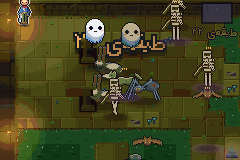
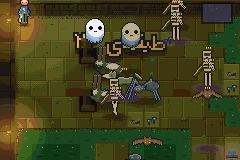
art(S9.10): R5 feedback — label + hero rim

Changed region(s): [[0.7875, 0.1562, 0.9917, 0.25], [0.0583, 0.0, 0.1458, 0.1562]]

diff --git a/game.html b/game.html
@@ -9432,17 +9432,6 @@ return {READ_GAP, READ_FLOOR, FLOOR_PASSES, bakeFloor};
 })();
 const {READ_GAP, READ_FLOOR, FLOOR_PASSES, bakeFloor} = __m_dungeon_bake;
 const __m_run_render = (() => {
-const _rims = new WeakMap(), RIM_C = [242, 239, 228, 210];
-function heroRim(spr) { // حلقهی ۴-همسایه دورِ پیکسلهای مات (α≥200؛ سایهی پختهشده نادیده) — یکبار بهازای هر اسپرایت؛ فهرستِ اندیس (ارزان)
-let m = _rims.get(spr);
-if (m) return m;
-const w = spr.w, h = spr.h, d = spr.d; m = [];
-const op = (x, y) => x >= 0 && y >= 0 && x < w && y < h && d[(y * w + x) * 4 + 3] >= 200;
-for (let y = 0; y < h; y++) for (let x = 0; x < w; x++) if (!op(x, y) && (op(x - 1, y) || op(x + 1, y) || op(x, y - 1) || op(x, y + 1))) m.push(x, y);
-_rims.set(spr, m);
-return m;
-}
-function drawRim(r, m, ox, oy) { for (let i = 0; i < m.length; i += 2) r.px(ox + m[i], oy + m[i + 1], RIM_C); }
 const LIT = [], LIT_R2 = 92 * 92; // S9.2: شعاعِ «موجودِ روشن» ≈ هالهی دیدِ قهرمان (۷۸) + حاشیه
 const _sprCache = new Map(); // کش اسپرایت قهرمان (LRU)
 const ENTS = []; // لیست موجودات قابل رندر — بازمصرف بین فریمها
@@ -9555,7 +9544,6 @@ LIT.length = nLit;
 function drawEnt(en) {
 if (en.hero) {
 const hx = Math.round(h.x) - HOX - cx, hy = Math.round(h.y) - HOY - cy;
-drawRim(r, heroRim(run._heroSprite()), hx, hy); // S9.2: حلقهی روشنِ ۱px بیرونِ outline ⇒ قهرمان روی هر کف جدا
 run._heroSprite().over(r, hx, hy); // سایه داخل اسپرایت پخته شده (ن۳۵: دوبل حذف شد)
 if (h.hurtT > 0 && Math.floor(h.hurtT * 30) % 2 === 0) run._heroSprite(true).over(r, hx, hy);
 else if (h.iframe > 0 && Math.floor(h.iframe * 24) % 2 === 0) r.rect(hx + 14, hy + 14, 36, 36, IFRAME_BOX); // ن۳۵: بوم ۶۴px
@@ -9663,7 +9651,6 @@ run._miniFloor = run.floor;
 }
 r.rect(mx - 1, my - 1, COLS * s + 2, ROWS * s + 2, MINI_BG);
 run._mini.over(r, mx, my);
-{ const lb = t('floor') + ' ' + faNum(run.floor); drawText(r, lb, Math.min(Math.round(mx + COLS * s / 2 - textW(lb, 1) / 2), r.w - textW(lb, 1) - 3), my + ROWS * s + 3, E.gold, 1, { outline: true }); } // ن۴۹: برچسب هرگز از لبه بیرون نمیزند // ن۴۱: برچسب طبقه زیر مینیمپ
 const hx = Math.floor(h.x / TILE), hy = Math.floor(h.y / TILE);
 if (Math.floor(run.time * 4) % 2 === 0) r.rect(mx + hx * s, my + hy * s, 2, 2, [255, 255, 255, 255]);
 if (bossRef) r.px(mx + Math.floor(bossRef.x / TILE) * s, my + Math.floor(bossRef.y / TILE) * s, BOSS_DOT);

diff --git a/MEMORY.md b/MEMORY.md
@@ -109,6 +109,7 @@ farmdungeon/   (کل ورکاسپیس ۲٫۵MB — بیرون فقط uploads/
 - **ن۱۲۰: S9.8 ✅ آبوهوای پیکسلی (۱ ماژول weather_px + farm_render، build_single)** — M5 باران ۷٫۲→۱۰۰٪: صحنهی ممیزی t=0 دقیقاً فریمِ فلش بود (lightningK)؛ flashTint آلفایی ⇒ flashPal با کشِ Int16 ۳۲۷۶۸ برای هر شدت. drawRain/flashTint/drawLightning در weather.js دیگر صدا زده نمیشوند (نگه داشته شده). audit مزرعه باران M5=۱۰۰٪. run_all سبز.
 - **ن۱۲۱: S9.9 (نیمه، تیک نخورده) — پرداختِ چهرهی قهرمان در hero_px** — چشمها از ۲px عمودی به ۱px (جلو/کنار)، پلکِ blink همخوان، دکمهی سیاهِ کمر → Y. تلاشِ چشم در ردیفِ ۳ سر بعد از half محو میشد ⇒ چشم در ردیفِ ۴. run_all سبز، audit ۸٫۲ (فقط M8 مزرعه=۱). ریلیز art-v3 منتظرِ تأییدِ کاربر برای M8 فقط-زمین. شاهد `shots/s99_hero_face.jpg`.
 - **ن۱۲۲: S9.9 ✅ ریلیز art-v3 (hero_px + art_audit)** — پای جلو/پشت: ax=hip±۱ (حلقهی O حذف، کارگرها هم)؛ پای کنار sideLeg (≤۱px/ردیف + زانوی ۲×۲). M8 با r.groundMask در farmSceneReal (قهرمان پیکسلی، خانه جعبهی ۵۹×۶۴ از HOUSE*TILE-(12,28)، کارگر ۲۸×۴۰). **درس:** M8 مزرعه=۱ از کارگر روی x=96 بود (ردیفهای ۱۰–۳۹)، نه قهرمان (ن۷۹ اشتباه بود). شاتهای ref_* با `node tools/sheet.mjs` بازسازی میشوند و کهنه بودند. audit ۹٫۱ (۱۰/۱۱). بعدی: 🛑 R5.
+- **ن۱۲۳: S9.10 ✅ بازخوردِ R5 (run_render)** — برچسبِ طبقهی مینیمپ و heroRim/drawRim حذف. اسکرینشاتِ کاربر: پیشنمایش با zoom ۴ ⇒ متنِ sc1 حدود ۵۰px. تیترِ splash در رستر درست وسط است (/tmp/tt.mjs).
 - **ن۱۱۳: R4 ⇒ P9 + S9.1 ✅ فونتِ فارسیِ متصل (۱ ماژولِ تازه + ۲ ویرایش)** — بازخوردِ کاربر: «همهچیز تار است» + امتیازِ سختگیرانهی ۴٫۲/۱۰ ⇒ فازِ **P9 زیبایی و وضوح** (۷ نشست + R5؛ هر نشست یک سنجهی چشمیِ تازه که قبل FAIL/بعد PASS). **کشف:** فونتِ S7.3 حروف را جدا و تکشکل میکشید (بدونِ آغازی/میانی/پایانی، ب بینقطه) ⇒ «طبقه» ≈ «uopub»؛ سنجههای قبلی (گلیف موجود/چشمه) این را نمیدیدند. **کار:** `tools/author_font_vaz.py` (تازه): Vazirmatn Medium **11px** (OFL، فقط در /tmp/vaz.ttf؛ بازی فایلِ فونت ندارد) را با **HarfBuzz/raqm از راهِ ZWJ** برای هر فرمِ بافتی رستر میکند ⇒ ماژولِ تازهی **`js/art/font_fa.js⟨69⟩`** (۳۰۱ گلیف، ۴۵ حرف×۴ فرم + لامالف، بیتمپ base64 ۴٫۳KB، H=15، base=10) + شکلدهیِ عربی (RJ/ZWNJ/لامالف/ALIAS/آینهی پرانتز) + bidi (ردیفهای لاتین/عدد با فاصله و جداکننده) + نمادهای دستیِ → ✦. بخشِ کدِ font_fa پس از نشانهی «رمزگشایی» با بازتولید حفظ میشود. **`js/art/font2.js` ۲۸۹→۱۰۵** (همان API؛ ماسک/حلقهی کششده با سقف ۲۵۶؛ GLYPHS حذف ⇒ `tools/author_font41.py` منسوخ است و نباید اجرا شود) · `build_single` (BASE: art/font_fa پیش از font2). **سنجه:** شناساییِ ۱-از-N روی ۲۰۱ کلمه در برابرِ مرجعِ HarfBuzz **۲٫۵٪→۹۷٫۰٪**، F1±1px **۰٫۶۴۸→۰٫۹۹۲** · qa_all ۵۲/۵۲ · فازر ✓ · run_all سبز · audit ۹٫۱ · A/B دانجن ۱٫۱۴× · بیلد ۵۳۳٫۳KiB. درس: IoUِ پیکسلیِ خام با HarfBuzz سقفِ ~۰٫۶ دارد (جایگذاریِ زیرپیکسلی) ⇒ خوانایی را با «شناسایی» بسنج.
 - **ن۱۱۲: S8.4 ✅ ریلیز — رودمپ تمام (۰ ماژول + ویرایش: build_single.mjs، README.md تازه، game.html)** — `build_single` تابعِ `slim`: حذفِ کامنتِ تمامخط و تورفتگی (template literalِ چندخطی دستنخورده) + گزارشِ اندازه به **بایت** (عددِ قبلیِ «۶۱۰٫۴KB» طولِ رشته بود نه بایت!) ⇒ game.html **۶۹۲→۵۲۹٫۸KiB** ✓ (هدف ≤۶۰۰) · برابریِ توکنی با باندلِ قبلی (بدونِ فاصله) ✓ · run_all سبز · shots: sheet all بازسازی، ۱۲ شاهدِ قدیمیِ s6x/s7x حذف (در تاریخچهی git هست) · README (اجرا: `node serve.mjs`) · **Scoreboard نهایی ۱۱/۱۱** (audit ۱۰ + M11 با A/B) · تگ **art-v2**. بعدی: 🛑 R4.
 - **ن۱۱۱: S8.3 ✅ رگرسیونِ کامل (۰ ماژول + ۰ ویرایشِ کد؛ فقط تست در /tmp/s83)** — `qa_all.mjs` بازنویسی **۵۲/۵۲** (font+i18n ۹: ۶۸+ کلید، همهی نویسههای fa/en گلیف دارند ⇒ هیچ «؟»ِ جایگزین · save ۱۰: سیوِ v6 ساختهشده با `defaultSave` تگِ art-baseline کامل لود شد، مهاجرت v3→v6، JSONِ خراب، بافِ نامعتبر، رفتوبرگشت، ریست · bp/tile/mobs/seed ۹ · run ۱۰ · render ۱۴: ۶ تم، قطعیت، مزرعه ۶۰۰ فریم، ۳ ویوپورت، Q0/Q1) · **فازر ۴۰ سید × ۲۴ طبقه** (۹۶۰ دور، ۸۶٬۴۰۰ فریم ورودیِ تصادفی): ۰ کرش · ۰ NaN · ۰ خروج از نقشه · **دسترسپذیری ۲۰۰ سید × ۳۰ طبقه** (۶۰۰۰ نقشه): پله ۰ · صندوق ۰/۱۷۳۲۲ · محراب ۰/۳۱۴۳ ناموفق · run_all سبز (boot ۱۱ · render5 ۱۵ · render6 ۲۷) · elite47 ۴/۴ · امتیاز ۹٫۱. **یافته ⇒ رفع (fix(S8.3)، با تأییدِ کاربر):** ۱۴۲ هیولای غیرباس روی جزیرهی کفِ محصور اسپاون میشدند ⇒ `Dungeon._reachFix` (`js/dungeon.js`) پس از تولید، هیولای غیرقابلدسترس را بدونِ مصرفِ RNG به نزدیکترین کفِ قابلدسترس میبرد ⇒ ۱۴۲→۰؛ چیدمان/سید/تعداد یکسان. `Math.random` فقط در فاز/idleِ انیمیشنِ Monster است؛ چیدمان قطعی. درس: تستِ قطعیتِ رندر باید Math.random را بذر بدهد.

diff --git a/roadmap/P9.md b/roadmap/P9.md
@@ -69,4 +69,9 @@
 - ✅ audit: ۸٫۲ → **۹٫۱/۱۰** (۱۰/۱۱؛ M11 جدا در bench) · run_all سبز · شاتهای مرجع که کهنه بودند بازسازی شدند
 - ✅ تگ `art-v3`
 
+## S9.10 — بازخوردِ R5: متنِ بزرگ/بریده + حاشیهی سفیدِ قهرمان ✅
+- ✅ برچسبِ «طبقهی N» زیرِ مینیمپ حذف شد (در زومِ ۴× بزرگ و از لبهی چپ بریده بود؛ شماره در نوارِ پایین هست)
+- ✅ حلقهی سفیدِ ۱px دورِ قهرمان در دانجن حذف شد (حاشیهی دوبلِ سفید+سیاه = حسِ برچسبِ بیکیفیت)؛ M1 قهرمان ۴۱٫۷ بیتغییر
+- ✅ audit ۹٫۱ · run_all سبز
+
 ## 🛑 R5 — تأییدِ چشمیِ کاربر

diff --git a/ROADMAP.md b/ROADMAP.md
@@ -150,6 +150,7 @@ MEMORY.md را بخوان. در ROADMAP.md اولین نشست ☐ را پیدا
 - [x] S9.7 مزرعهی پر و مقیاسِ درست
 - [x] S9.8 آبوهوای پیکسلی
 - [x] S9.9 ریلیز art-v3 + بازبینیِ مجدد
+- [x] S9.10 بازخوردِ R5 (متن/حاشیهی قهرمان)
 - [ ] 🛑 R5 تأییدِ چشمیِ کاربر
 
 ## ⚠ ریسکهای شناختهشده (از MEMORY)
